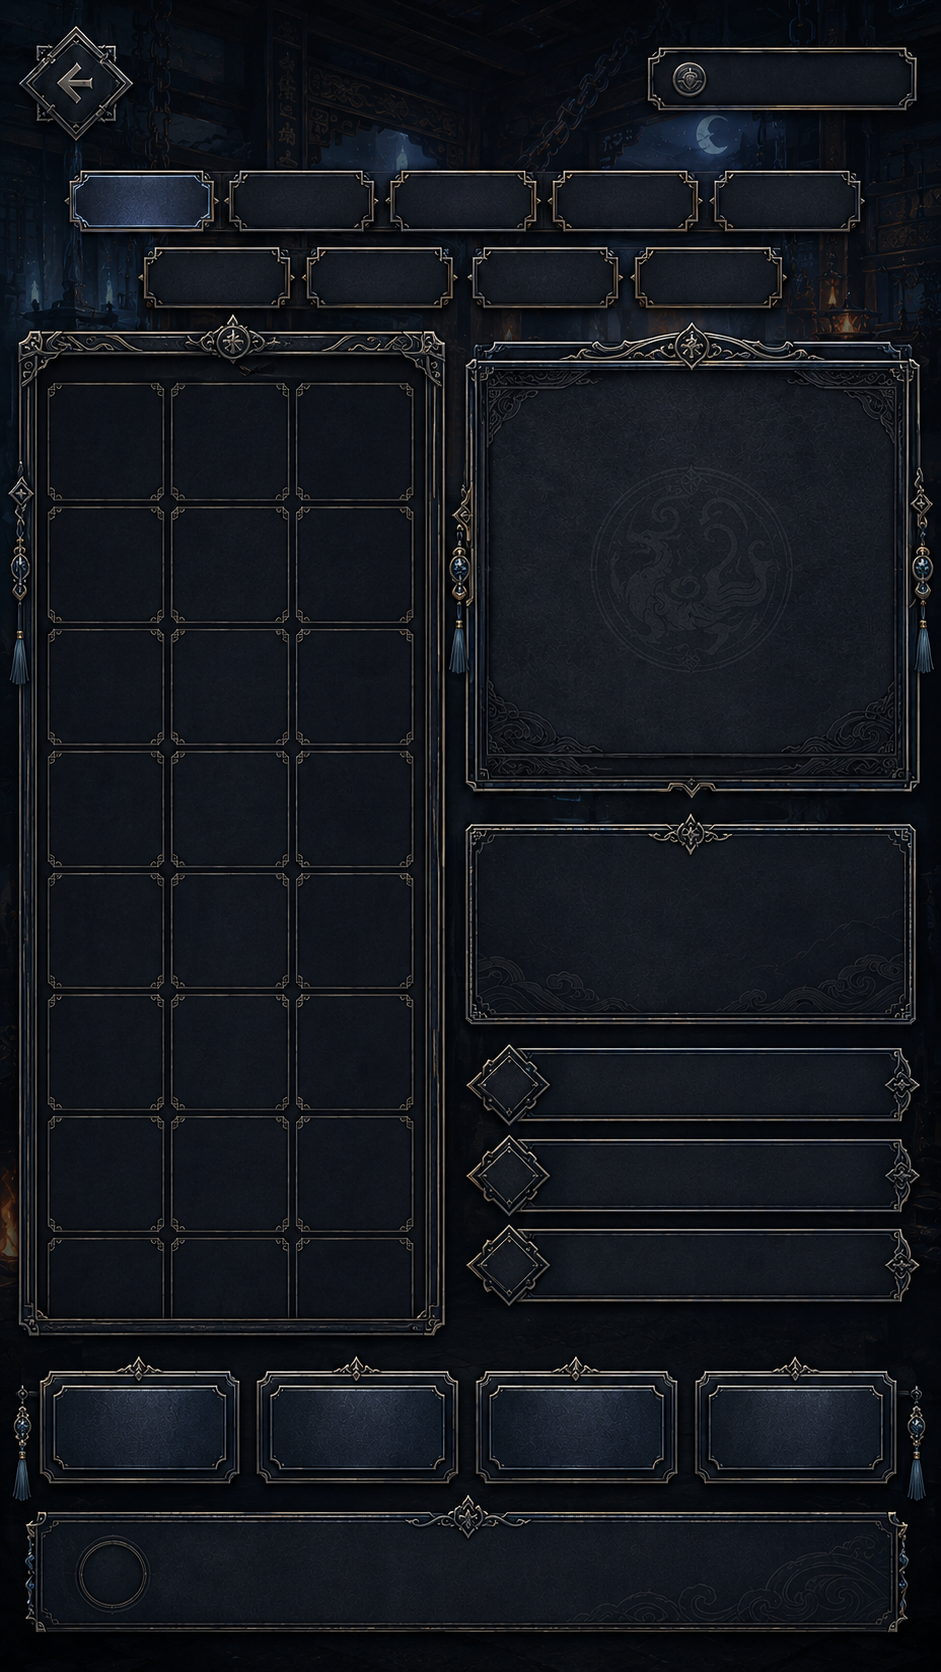
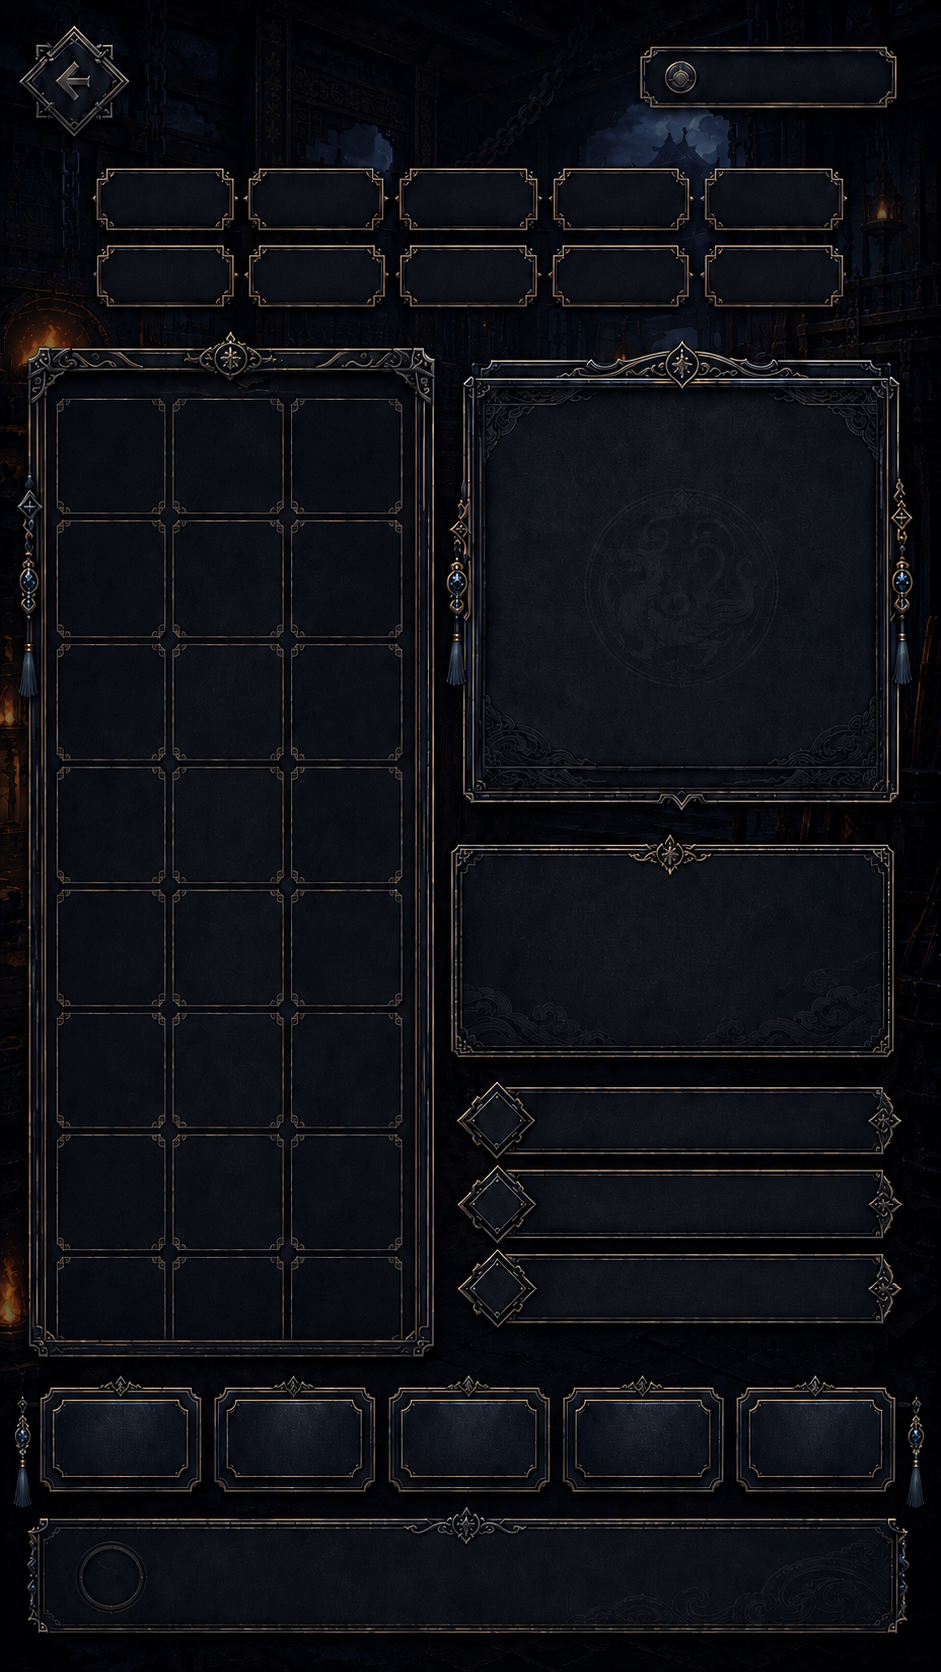
patch

Changed region(s): [[0.0, 0.0, 1.0, 0.9952], [0.1541, 0.9641, 0.8321, 0.9952], [0.9245, 0.9641, 0.9554, 0.9952]]

diff --git a/index.html b/index.html
@@ -11,9 +11,9 @@
 <meta name="referrer" content="no-referrer"/>
 <link href="manifest.webmanifest" rel="manifest"/>
 <link href="assets/icons/icon-192.png" rel="apple-touch-icon"/>
-<title>천하생존록 · v14.16.8</title>
+<title>천하생존록 · v14.16.9</title>
 
-<link href="css/base.css" rel="stylesheet"/><link href="css/systems.css" rel="stylesheet"/><link href="css/remaster.css" rel="stylesheet"/><link href="css/mobile.css" rel="stylesheet"/><link href="css/animation-pass.css" rel="stylesheet"/><link href="css/awakening-cutscene.css" rel="stylesheet"/><link href="css/forge-v13.css?v=14168" rel="stylesheet"/><link href="css/v14-improvements.css?v=14168" rel="stylesheet"/><link href="css/audio-mixer-v14-3-3.css" rel="stylesheet"/><link href="css/forge-mobile-final-v14-11-1.css?v=14168" rel="stylesheet"/><link href="css/forge-mobile-v14-14-1-hotfix.css?v=14168" rel="stylesheet"/><link href="css/forge-mobile-v14-15-3-device-fix.css?v=14168" rel="stylesheet"/><link href="css/solo-raid-v14-16.css?v=14168" rel="stylesheet"/><link href="css/boss-hud-v14-16-3.css?v=14168" rel="stylesheet"/><meta content="v14.16.8-transcend-final" name="game-build"/><!-- legacy audit compatibility: v14.12.8-black-compare-align --></head>
+<link href="css/base.css" rel="stylesheet"/><link href="css/systems.css" rel="stylesheet"/><link href="css/remaster.css" rel="stylesheet"/><link href="css/mobile.css" rel="stylesheet"/><link href="css/animation-pass.css" rel="stylesheet"/><link href="css/awakening-cutscene.css" rel="stylesheet"/><link href="css/forge-v13.css?v=14169" rel="stylesheet"/><link href="css/v14-improvements.css?v=14169" rel="stylesheet"/><link href="css/audio-mixer-v14-3-3.css" rel="stylesheet"/><link href="css/forge-mobile-final-v14-11-1.css?v=14169" rel="stylesheet"/><link href="css/forge-mobile-v14-14-1-hotfix.css?v=14169" rel="stylesheet"/><link href="css/forge-mobile-v14-15-3-device-fix.css?v=14169" rel="stylesheet"/><link href="css/solo-raid-v14-16.css?v=14169" rel="stylesheet"/><link href="css/boss-hud-v14-16-3.css?v=14169" rel="stylesheet"/><meta content="v14.16.9-hub-restore" name="game-build"/><!-- legacy audit compatibility: v14.12.8-black-compare-align --></head>
 <body>
 <div id="assetLoader" role="status" aria-live="polite"><div class="asset-loader-card"><b>강호를 불러오는 중</b><div id="assetLoaderText" class="settings-note">필수 에셋 확인 중…</div><div class="asset-loader-bar"><span id="assetLoaderFill"></span></div></div></div>
 <div id="systemToast" role="status" aria-live="polite"></div>
@@ -93,13 +93,13 @@
 <script defer src="js/data/characters-meta.js"></script>
 <script defer src="js/systems/meta-combat.js"></script>
 <script defer src="js/ui/meta-menus-events.js"></script>
-<script defer src="js/systems/forge-v13.js?v=14168"></script>
+<script defer src="js/systems/forge-v13.js?v=14169"></script>
 <script defer src="js/systems/combat-power-v14-7-7.js"></script>
 <script defer src="js/ui/forge-mobile-final-v14-11-1.js"></script>
 <script defer src="js/core/save-manager.js"></script>
 <script defer src="js/render/animation-controller.js"></script>
 <script defer src="js/render/sprite-remaster-v14-3-18.js"></script>
-<script defer src="js/render/weapon-visuals-v14-4.js?v=14168"></script>
+<script defer src="js/render/weapon-visuals-v14-4.js?v=14169"></script>
 <script defer src="js/audio/audio-manager-v14-3-8.js"></script>
 <script defer src="js/vfx/awakening-cutscene-v14-3-8.js"></script>
 <script defer src="js/systems/content-registry.js"></script>
@@ -114,16 +114,16 @@
 <script defer src="js/boss/blood-demon.js"></script>
 <script defer src="js/vfx/v10.js"></script>
 <script defer src="js/vfx/sprite-vfx-v14-3-8.js"></script>
-<script defer src="js/systems/katana-rework-v15.js?v=14168"></script>
+<script defer src="js/systems/katana-rework-v15.js?v=14169"></script>
 <script defer src="js/ui/advanced-settings-v14-3-3.js"></script>
 <script defer src="js/systems/game-runtime-v14.js"></script>
 <script defer src="js/systems/combat-progression-v14-3-1.js"></script>
 <script defer src="js/systems/abyss-mode-v14-8-7.js"></script>
 <script defer src="js/systems/system-overhaul-v14-10.js"></script>
 <script defer src="js/systems/world-map-v14-15.js"></script>
-<script defer src="js/systems/solo-raid-v14-16.js?v=14168"></script>
-<script defer src="js/systems/weapon-transcend-v14-16-2.js?v=14168"></script>
-<script defer src="js/ui/boss-bar-ui-v14-16-3.js?v=14168"></script>
+<script defer src="js/systems/solo-raid-v14-16.js?v=14169"></script>
+<script defer src="js/systems/weapon-transcend-v14-16-2.js?v=14169"></script>
+<script defer src="js/ui/boss-bar-ui-v14-16-3.js?v=14169"></script>
 <script defer src="js/core/pwa.js"></script>
 <script defer src="js/core/startup.js"></script></body>
 </html>

diff --git a/service-worker.js b/service-worker.js
@@ -1,8 +1,8 @@
 "use strict";
 
-/** v14.16.8: 무신 초월 전용 에셋 완성 · 보구 대비 메인 UI 확장. */
+/** v14.16.9: 대장간 메인 허브 원복 · 무기관리 10슬롯/5버튼 · 초월 전용 UI 유지. */
 const CACHE_PREFIX="cheonha-";
-const CACHE="cheonha-v14-16-8-transcend-final";
+const CACHE="cheonha-v14-16-9-hub-restore";
 // legacy audit compatibility token: cheonha-v14-12-8-black-compare-align
 const APP_SHELL=[
   "./","index.html","manifest.webmanifest","BUILD.txt",

diff --git a/DEPLOY-WORKING-COPY-v14.16.9.md b/DEPLOY-WORKING-COPY-v14.16.9.md
@@ -1,0 +1,7 @@
+# v14.16.9 Working Copy 배포
+
+- 기준: v14.16.8-transcend-final
+- 수정: 대장간 메인 허브 main.png를 v14.16.5 원본으로 복구.
+- 적용 대상: 무기 관리 weapons.png에만 10칸 상단 슬롯/5버튼 에셋 적용.
+- 유지: 무신 초월 전용 transcend.png 및 초월 시스템 UI.
+- 보구: 상단 10칸 중 1칸은 향후 보구 탭용 예비 슬롯이며 시스템은 아직 미구현.
